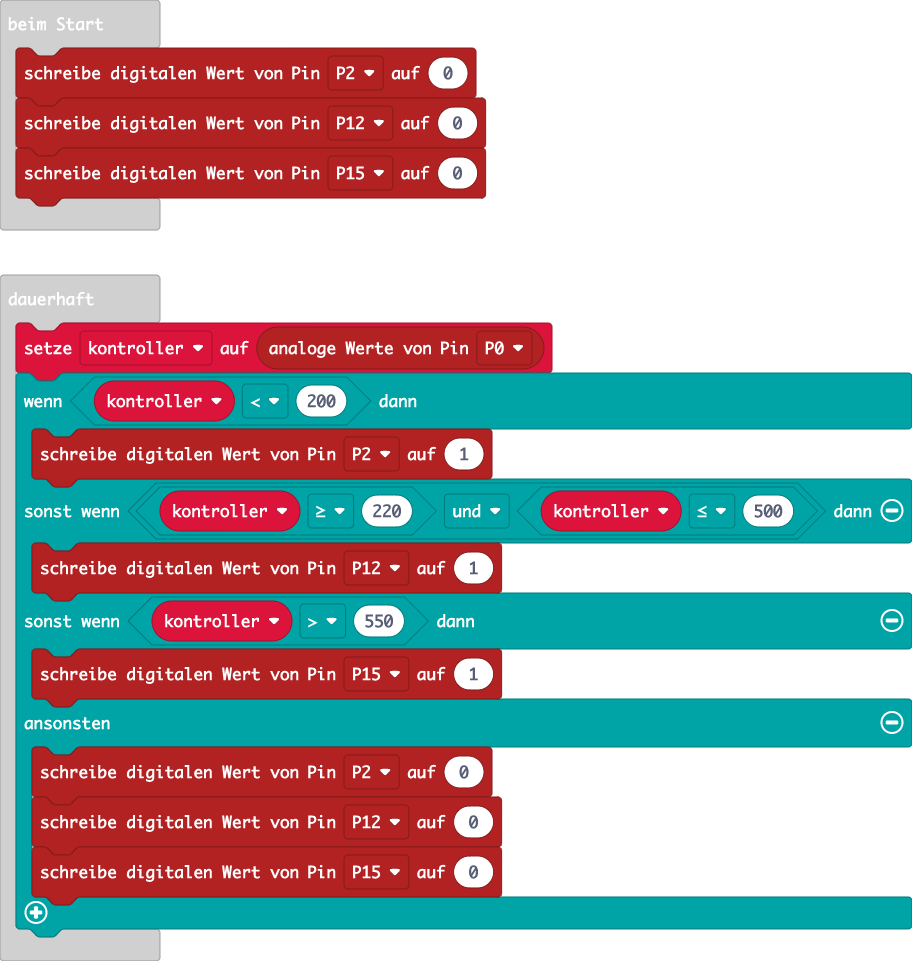
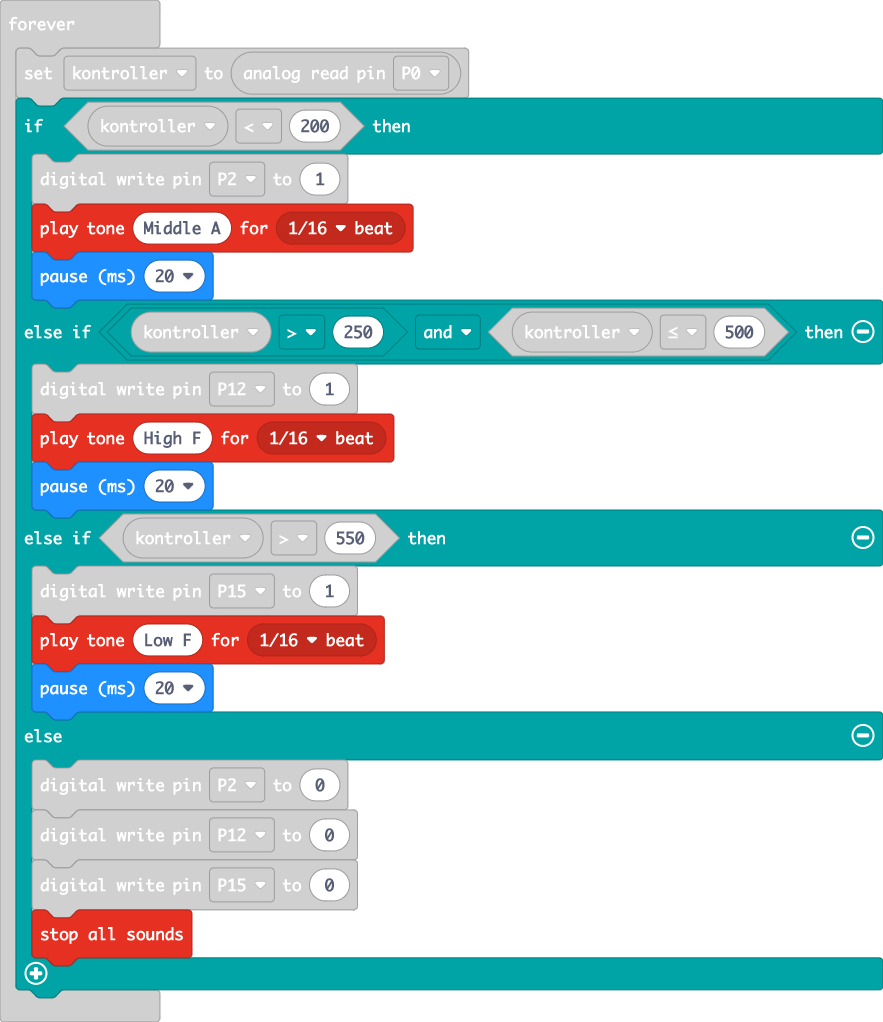
Update main.blocks, main.ts

diff --git a/main.ts b/main.ts
@@ -6,13 +6,20 @@ basic.forever(function () {
     kontroller = pins.analogReadPin(AnalogPin.P0)
     if (kontroller < 200) {
         pins.digitalWritePin(DigitalPin.P2, 1)
-    } else if (kontroller >= 220 && kontroller <= 500) {
+        music.playTone(440, music.beat(BeatFraction.Sixteenth))
+        basic.pause(20)
+    } else if (kontroller > 250 && kontroller <= 500) {
         pins.digitalWritePin(DigitalPin.P12, 1)
+        music.playTone(698, music.beat(BeatFraction.Sixteenth))
+        basic.pause(20)
     } else if (kontroller > 550) {
         pins.digitalWritePin(DigitalPin.P15, 1)
+        music.playTone(175, music.beat(BeatFraction.Sixteenth))
+        basic.pause(20)
     } else {
         pins.digitalWritePin(DigitalPin.P2, 0)
         pins.digitalWritePin(DigitalPin.P12, 0)
         pins.digitalWritePin(DigitalPin.P15, 0)
+        music.stopAllSounds()
     }
 })
